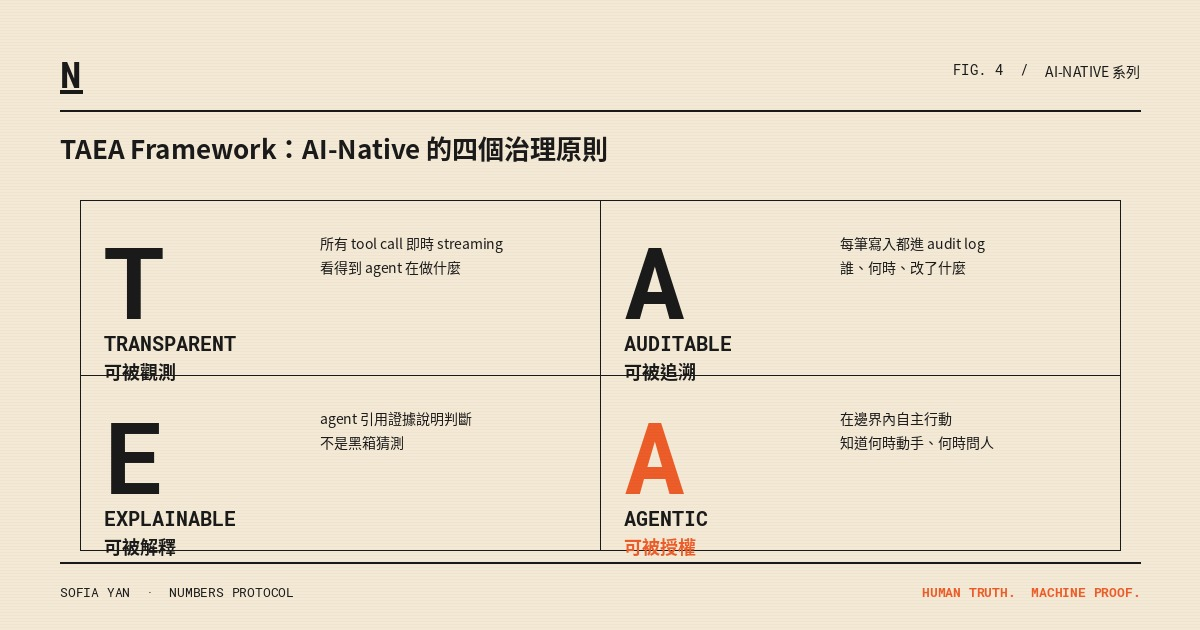
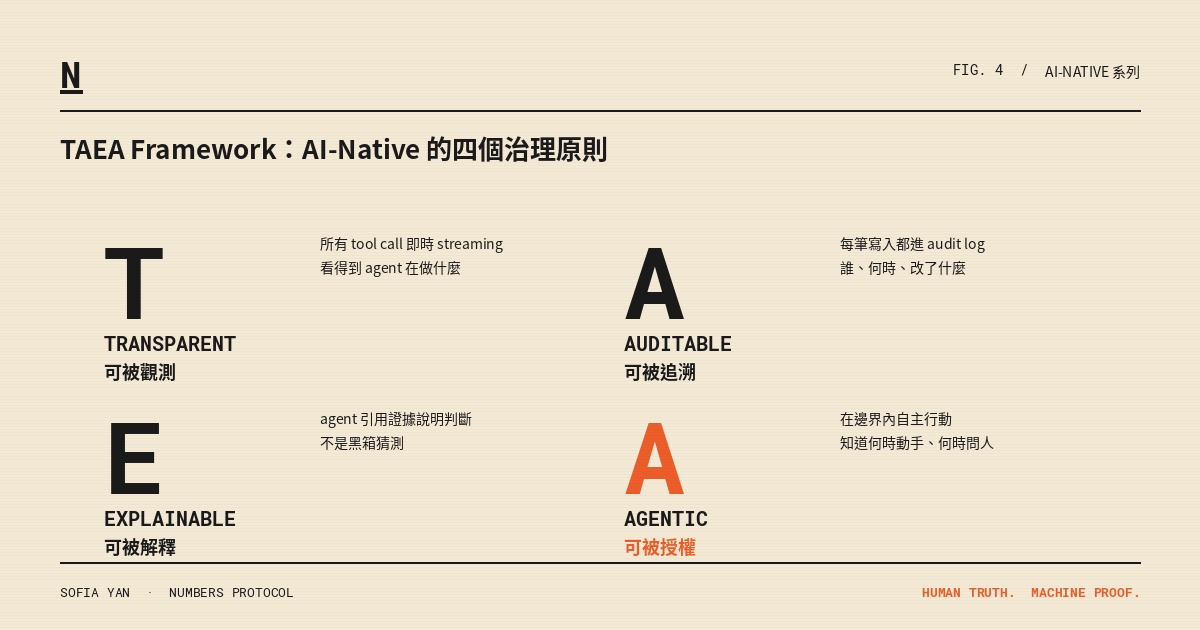
fix: remove cell border from TAEA chart generator
by Sofia Yan & Omni

diff --git a/scripts/generate-charts.py b/scripts/generate-charts.py
@@ -387,8 +387,6 @@ def chart4_taea():
         x0 = pad_x + col * cell_w
         y0 = pad_top + row * cell_h
 
-        # Cell border
-        d.rectangle([(x0, y0), (x0 + cell_w, y0 + cell_h)], outline=BLACK, width=1)
         # Big letter
         d.text((x0 + 24, y0 + 14), q["letter"], font=f(RM_BOLD, 100), fill=q["color"])
         # Name

diff --git a/.omni/92b9b6e4-ai/memory.md b/.omni/92b9b6e4-ai/memory.md
@@ -44,4 +44,4 @@ _Not yet documented. The AI will populate this as it discovers the environment._
 - Omni 平台設計與 Greg Isenberg 的 AI-Native 論述高度對齊：TAEA 框架（Transparent / Auditable / Explainable）對應文章的「agent 需要規則、稽核、證據」；Memory（per-conversation `.omni/memory.md` + Shared Memory 五分類）+ Skills + Subagents + Library RAG 構成「對機器可讀」的組織知識層；Heartbeat（Pulse 4h / Rhythm 24h）+ NREM + Monitor + Loop/Schedule 構成「agent 艦隊 + 人類監督」的多模型編排；Z App agent tickets / Plan Mode / confirmation hooks 構成「何時動手、何時問人」的邊界。Omni 定位是「AI-Native 公司的賣鏟人」— 平台層基礎建設，而非單一產業的 AI-Native 服務公司。
 
 ---
-_Last system refresh: 2026-05-22 03:35 UTC_
+_Last system refresh: 2026-05-22 04:45 UTC_